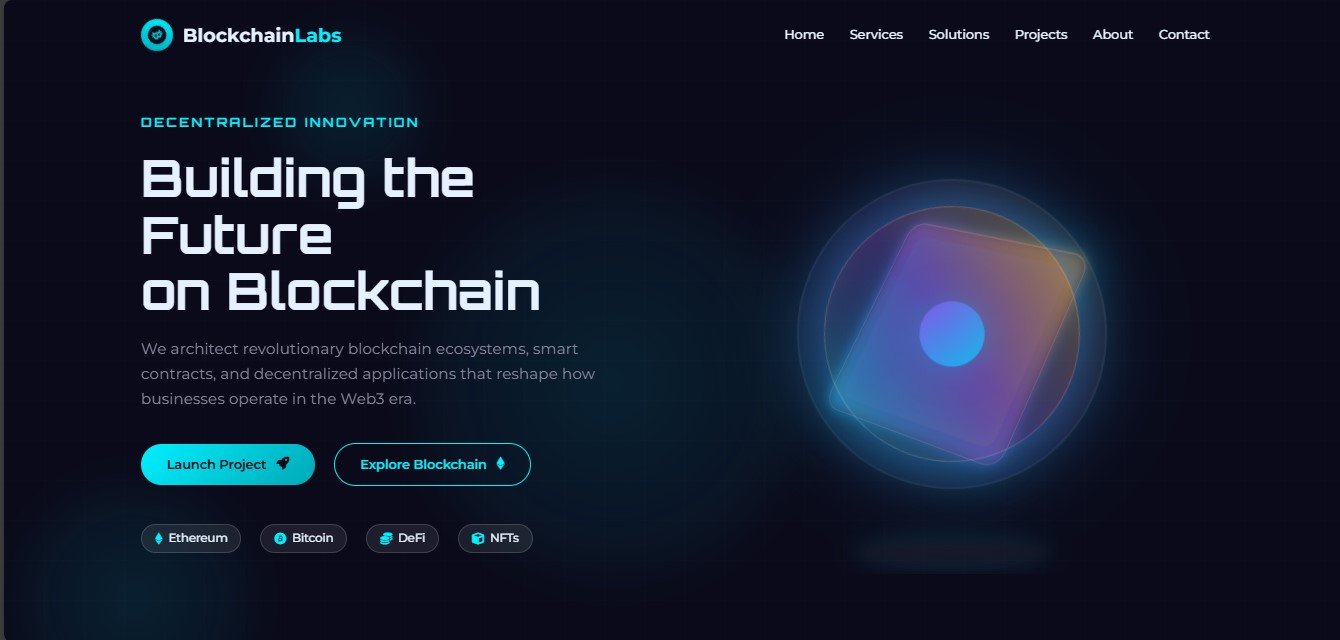
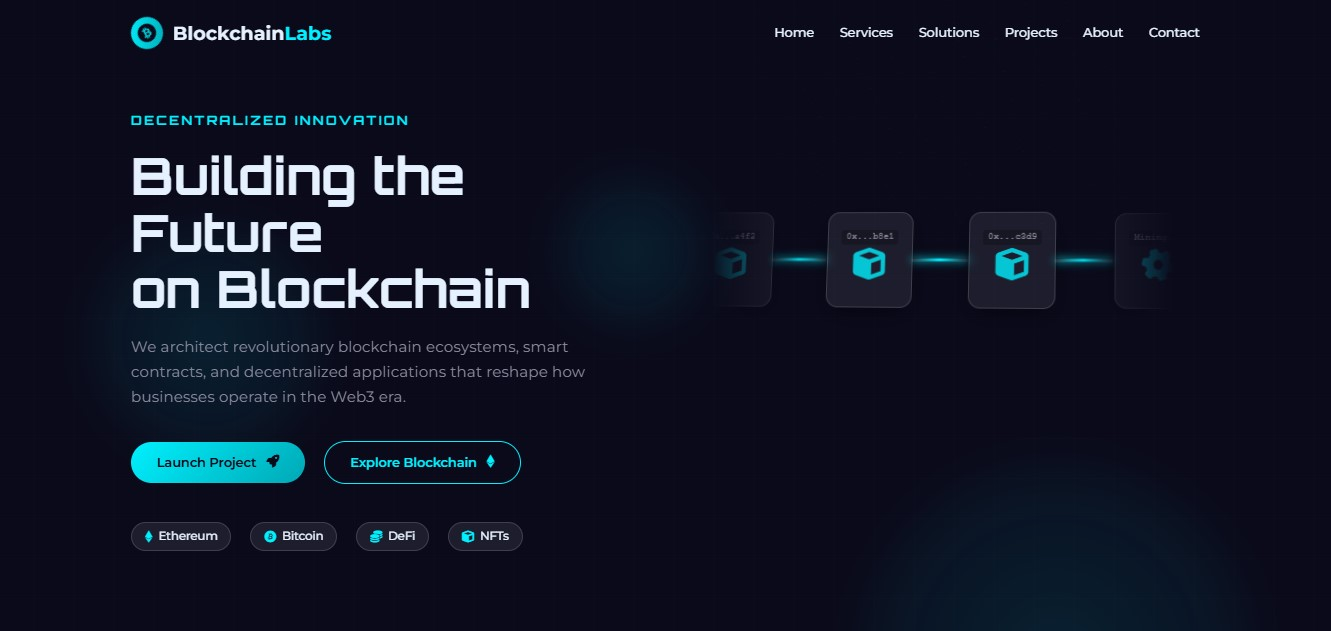
Navbar3

diff --git a/agency/Dev/agencydev2/styles.css b/agency/Dev/agencydev2/styles.css
@@ -1734,6 +1734,9 @@ img {
 }
 
 @media (max-width: 576px) {
+    .hero-content{
+        margin-bottom: 5rem;
+    }
     .container {
         padding: 0 1.5rem;
     }
@@ -1761,4 +1764,141 @@ img {
     .footer-links {
         justify-content: center;
     }
+}
+/* Hero Visual - Blockchain Animation */
+
+.hero-visual {
+    flex: 1;
+    position: relative;
+    height: 750px; /* Increased height */
+    display: flex;
+    align-items: flex-start; /* Move content higher */
+    justify-content: center;
+    perspective: 1800px; /* Slightly more perspective */
+    margin-top: -250px; /* Move the animation up */
+    /* Kənarları hamarlayan maska effekti */
+    -webkit-mask-image: linear-gradient(to right, transparent 5%, black 25%, black 75%, transparent 95%);
+    mask-image: linear-gradient(to right, transparent 5%, black 25%, black 75%, transparent 95%);
+}
+
+.blockchain-animation {
+    width: 110%; /* Slightly larger */
+    height: 110%;
+    position: relative;
+    transform-style: preserve-3d;
+    /* Yeni "yellənən" animasiya */
+    animation: swayScene 15s infinite ease-in-out;
+}
+
+/* Yeni "yellənən" animasiyanın keyframe-ləri */
+@keyframes swayScene {
+    0% {
+        transform: rotateY(0deg) rotateX(10deg);
+    }
+    25% {
+        transform: rotateY(15deg) rotateX(12deg); /* Sağa dönmə */
+    }
+    75% {
+        transform: rotateY(-15deg) rotateX(8deg); /* Sola dönmə */
+    }
+    100% {
+        transform: rotateY(0deg) rotateX(10deg);
+    }
+}
+
+/* --- Qalan kodlar dəyişməz qalır --- */
+
+.block-chain {
+    position: absolute;
+    width: 100%;
+    height: 100%;
+    display: flex;
+    align-items: center;
+    justify-content: center;
+    gap: 70px;
+    transform-style: preserve-3d;
+}
+
+.block {
+    width: 120px;
+    height: 120px;
+    background: var(--glass);
+    border: 1px solid var(--glass-border);
+    backdrop-filter: blur(8px);
+    border-radius: 15px;
+    position: relative;
+    display: flex;
+    flex-direction: column;
+    align-items: center;
+    justify-content: center;
+    box-shadow: 0 10px 30px rgba(0,0,0,0.3);
+    transition: var(--transition);
+    transform: translateZ(20px);
+}
+
+.block:hover {
+    transform: translateZ(40px) scale(1.05);
+    border-color: var(--primary);
+}
+
+.block:not(:last-child)::after {
+    content: '';
+    position: absolute;
+    left: 100%;
+    top: 50%;
+    transform: translateY(-50%);
+    width: 70px;
+    height: 4px;
+    background: linear-gradient(90deg, var(--glass-border), var(--primary), var(--glass-border));
+    box-shadow: 0 0 10px var(--primary);
+}
+
+.block-icon {
+    font-size: 2.5rem;
+    color: var(--primary);
+    margin-bottom: 0.5rem;
+    animation: icon-pulse 3s infinite ease-in-out;
+}
+
+.block-hash {
+    font-size: 0.7rem;
+    font-family: 'Courier New', Courier, monospace;
+    color: var(--gray);
+    background: rgba(0,0,0,0.2);
+    padding: 3px 6px;
+    border-radius: 4px;
+}
+
+@keyframes icon-pulse {
+    0%, 100% { transform: scale(1); opacity: 0.8; }
+    50% { transform: scale(1.1); opacity: 1; }
+}
+
+.new-block {
+    animation: newBlockAnimation 4s infinite;
+}
+
+@keyframes newBlockAnimation {
+    0% { opacity: 0.5; transform: scale(0.9) translateZ(10px); }
+    50% { opacity: 1; transform: scale(1) translateZ(20px); }
+    100% { opacity: 0.5; transform: scale(0.9) translateZ(10px); }
+}
+
+.node-network {
+    position: absolute;
+    top: 0;
+    left: 0;
+    width: 100%;
+    height: 100%;
+    background-image:
+        radial-gradient(circle at 1px 1px, rgba(0, 240, 255, 0.5) 1px, transparent 0);
+    background-size: 40px 40px;
+    opacity: 0.1;
+    animation: move-background 20s linear infinite;
+    transform: rotateX(-80deg) translateZ(-150px);
+}
+
+@keyframes move-background {
+    from { background-position: 0 0; }
+    to { background-position: 400px 400px; }
 }

diff --git a/index.html b/index.html
@@ -148,7 +148,7 @@
 
     .gcraft-name {
 
-        margin-top: 0.25rem;
+        margin-top: 0.17rem;
         font-size: 0.9rem;
     }
 }
@@ -181,6 +181,7 @@
             gap: 2rem;
             margin-top: 1.2rem; /* Added margin to move links lower */
             /* EDITED: margin-left: auto is no longer needed */
+            margin-bottom: -2rem; /* Adjusted margin for new layout */
         }
 
         .nav-links a {
@@ -216,9 +217,10 @@
             font-size: 1.5rem;
             cursor: pointer;
             color: white;
+            margin-bottom: -0.7rem; /* Adjusted margin for new layout */
         }
 
-        /* Hero Section */
+        /* Hero Section */  
         .hero {
             min-height: 100vh; /* Changed from height to min-height for better flexibility */
             display: flex;
@@ -1328,13 +1330,13 @@
                 <i class="fas fa-bars"></i>
             </button>
         </nav>
+        <a href="https://gcraft.tech">
         <div class="by-gcraft">
-            <a href="https://gcraft.tech">
-                <span class="by-text">by</span>
-                <img src="https://gcraft.tech/static/media/GCraft_icon-01.a41d81cd7980932c74b07424a205d168.svg" alt="GCraft Icon" class="gcraft-logo">
-                <span class="gcraft-name">GCraft</span>
-            </a>
+            <span class="by-text">by</span>
+            <img src="https://gcraft.tech/static/media/GCraft_icon-01.a41d81cd7980932c74b07424a205d168.svg" alt="GCraft Icon" class="gcraft-logo">
+            <span class="gcraft-name">GCraft</span>
         </div>
+        </a>
     </div>
 </header>
     <!-- Hero Section -->

diff --git a/agency/Dev/agencydev2/index.html b/agency/Dev/agencydev2/index.html
@@ -84,11 +84,27 @@
                     </div>
                 </div>
             </div>
-            <div class="hero-visual">
-                <div class="floating-cube"></div>
-                <div class="holographic-display">
-                    <div class="hologram"></div>
-                    <div class="hologram-base"></div>
+                        <div class="hero-visual">
+                <div class="blockchain-animation">
+                    <div class="node-network"></div>
+                    <div class="block-chain">
+                        <div class="block">
+                            <div class="block-hash">0x...a4f2</div>
+                            <div class="block-icon"><i class="fas fa-cube"></i></div>
+                        </div>
+                        <div class="block">
+                            <div class="block-hash">0x...b8e1</div>
+                            <div class="block-icon"><i class="fas fa-cube"></i></div>
+                        </div>
+                        <div class="block">
+                            <div class="block-hash">0x...c3d9</div>
+                            <div class="block-icon"><i class="fas fa-cube"></i></div>
+                        </div>
+                        <div class="block new-block">
+                            <div class="block-hash">Mining...</div>
+                            <div class="block-icon"><i class="fas fa-cog fa-spin"></i></div>
+                        </div>
+                    </div>
                 </div>
             </div>
         </div>
